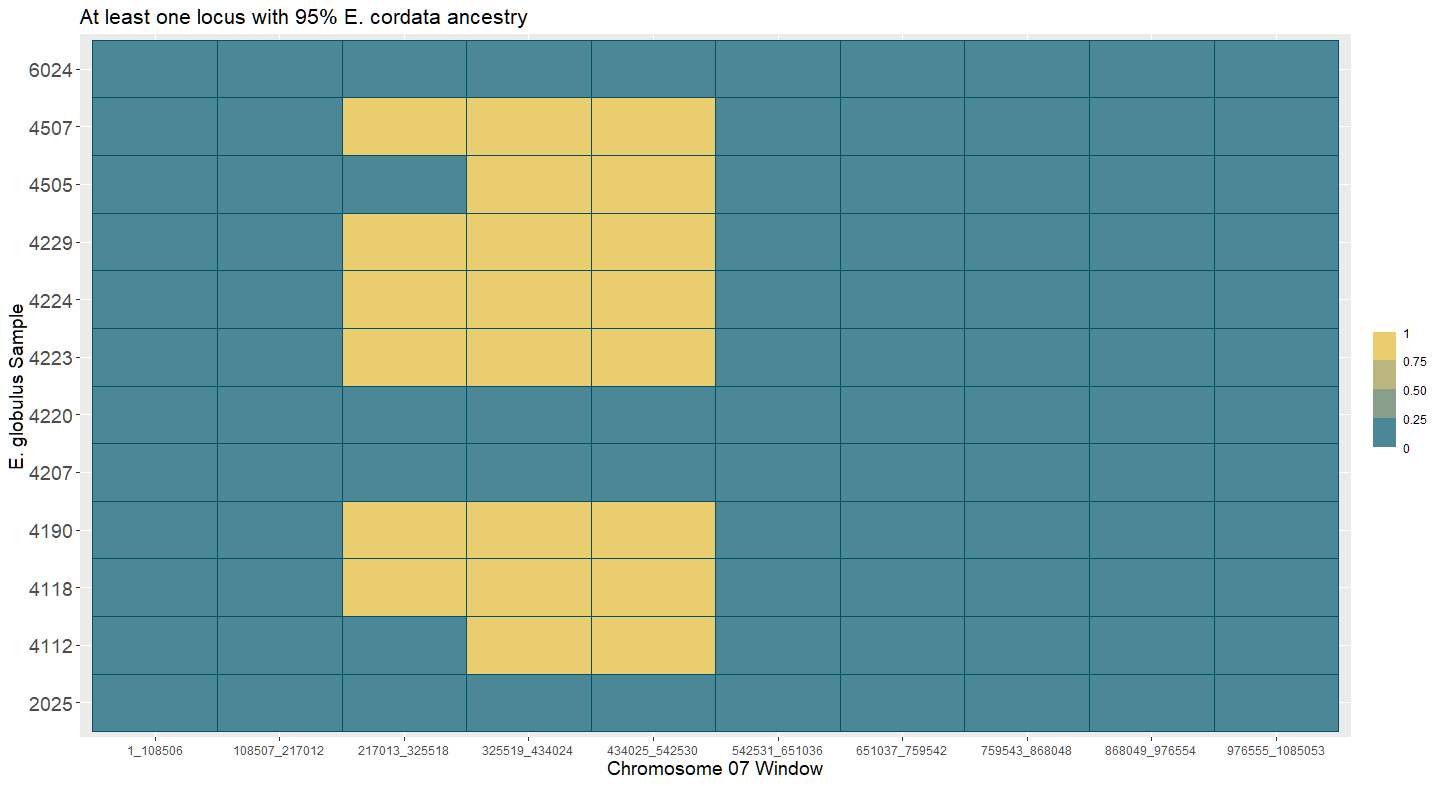
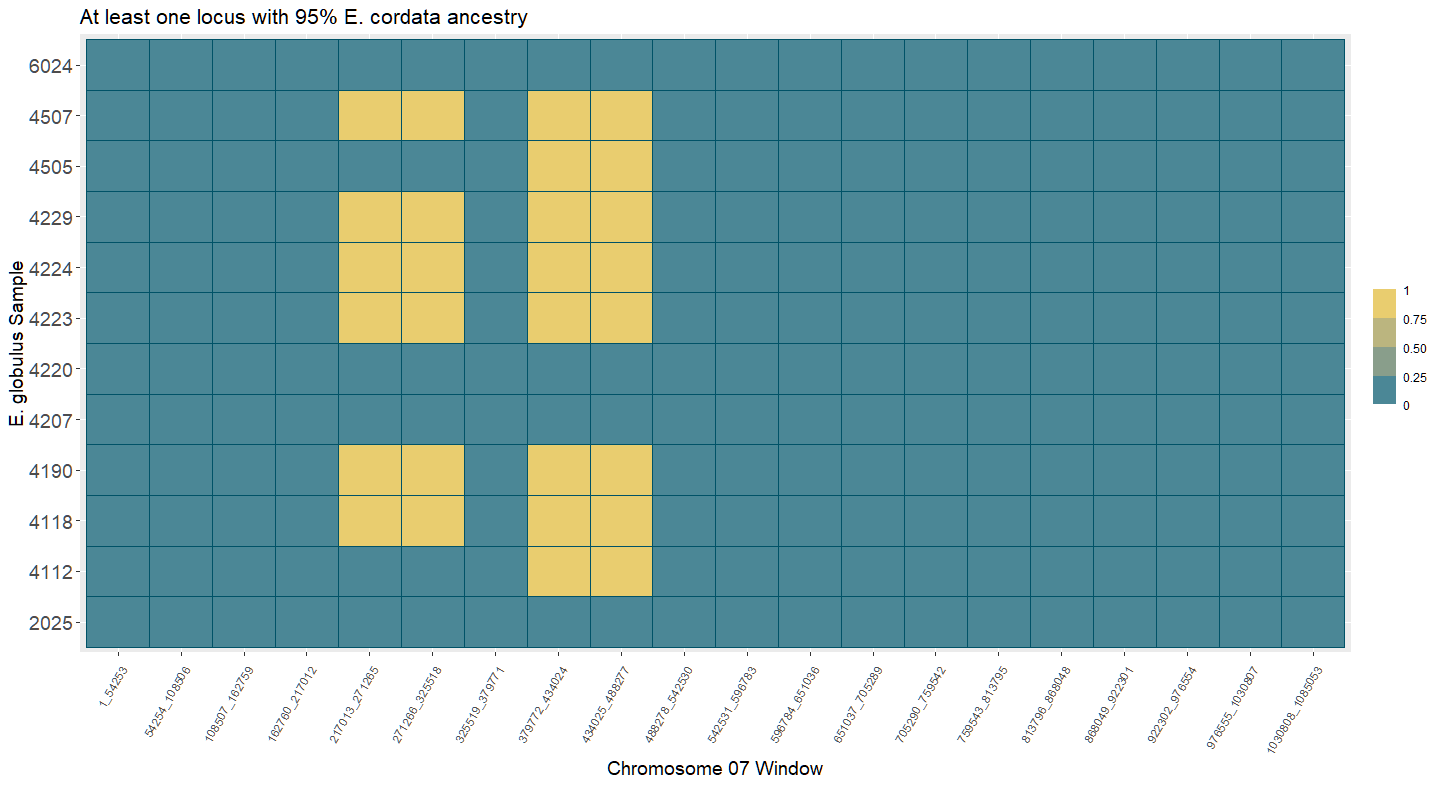
zoomed heatmaps

diff --git a/05.analyses/ancestry_hmm/README.md b/05.analyses/ancestry_hmm/README.md
@@ -505,7 +505,7 @@ chr06b2_3_het <- ggplot(chr06b2_3_df, aes(window, acc, fill = het_mat)) +
               ggtitle("At least one locus with 95% E. cordata ancestry") + 
               xlab("Chromosome 06 Window") + ylab("E. globulus Sample") + 
               scale_x_discrete(labels = chr06b2_3_xlabs) +
-              hm_theme
+              hm_theme + theme(axis.text.x = element_text(angle = 60, vjust = 0.95, hjust=1))
 chr06b2_3_het
 
 # Chromosome 7 Block 1-1
@@ -525,7 +525,7 @@ chr07b1_1_het <- ggplot(chr07b1_1_df, aes(window, acc, fill = het_mat)) +
               ggtitle("At least one locus with 95% E. cordata ancestry") + 
               xlab("Chromosome 07 Window") + ylab("E. globulus Sample") + 
               scale_x_discrete(labels = chr07b1_1_xlabs) +
-              hm_theme
+              hm_theme + theme(axis.text.x = element_text(angle = 60, vjust = 0.95, hjust=1))
 chr07b1_1_het
 
 # Chromosome 7 Block 1-7
@@ -545,7 +545,7 @@ chr07b1_7_het <- ggplot(chr07b1_7_df, aes(window, acc, fill = het_mat)) +
               ggtitle("At least one locus with 95% E. cordata ancestry") + 
               xlab("Chromosome 07 Window") + ylab("E. globulus Sample") + 
               scale_x_discrete(labels = chr07b1_7_xlabs) +
-              hm_theme
+              hm_theme + theme(axis.text.x = element_text(angle = 60, vjust = 0.95, hjust=1))
 chr07b1_7_het
 
 # Chromosome 8 Block 2-67
@@ -565,14 +565,133 @@ chr08b2_67_het <- ggplot(chr08b2_67_df, aes(window, acc, fill = het_mat)) +
               ggtitle("At least one locus with 95% E. cordata ancestry") + 
               xlab("Chromosome 08 Window") + ylab("E. globulus Sample") + 
               scale_x_discrete(labels = chr08b2_67_xlabs) +
-              hm_theme
+              hm_theme + theme(axis.text.x = element_text(angle = 60, vjust = 0.95, hjust=1))
 chr08b2_67_het
 ```
 
-![Presence of _E. cordata_ ancestry in Chromosome 6 12513761 bp to 13556574 bp; heterozygotes were scored as half in presence/absence matrix.](chr06b2-3_het_windows.png "_E. cordata_ ancestry heatmap for Chromosome 6 Block 3")
+![Presence of _E. cordata_ ancestry in Chromosome 6 12513761 bp to 13556574 bp; heterozygotes were scored as half in presence/absence matrix.](chr06b2-3_het_windows.png "_E. cordata_ ancestry heatmap for Chromosome 6 Block 2_3")
 
-![Presence of _E. cordata_ ancestry in Chromosome 7 1 bp to 1085053 bp; heterozygotes were scored as half in presence/absence matrix.](chr07b1-1_het_windows.png "_E. cordata_ ancestry heatmap for Chromosome 7 Block 1-1")
+![Presence of _E. cordata_ ancestry in Chromosome 7 1 bp to 1085053 bp; heterozygotes were scored as half in presence/absence matrix.](chr07b1-1_het_windows.png "_E. cordata_ ancestry heatmap for Chromosome 7 Block 1_1")
 
-![Presence of _E. cordata_ ancestry in Chromosome 7 6510319 bp to 7595371 bp; heterozygotes were scored as half in presence/absence matrix.](chr07b1-7_het_windows.png "_E. cordata_ ancestry heatmap for Chromosome 7 Block 1-7")
+![Presence of _E. cordata_ ancestry in Chromosome 7 6510319 bp to 7595371 bp; heterozygotes were scored as half in presence/absence matrix.](chr07b1-7_het_windows.png "_E. cordata_ ancestry heatmap for Chromosome 7 Block 1_7")
 
-![Presence of _E. cordata_ ancestry in Chromosome 8 21064388 to 23872973 bp; heterozygotes were scored as half in presence/absence matrix.](chr08b2-67_het_windows.png "_E. cordata_ ancestry heatmap for Chromosome 8 Block 2-67")
+![Presence of _E. cordata_ ancestry in Chromosome 8 21064388 to 23872973 bp; heterozygotes were scored as half in presence/absence matrix.](chr08b2-67_het_windows.png "_E. cordata_ ancestry heatmap for Chromosome 8 Block 2_6-7")
+
+| Chromosome | Start (bp)  | End (bp)    |
+| ---------- | ----------- | ----------- |
+| Chr06      | 13,139,453  | 13,190,593  |
+| Chr07      | 217,013     | 488,277     |
+| Chr07      | 7,052,849   | 7,161,354   |
+| Chr08      | 22,328,249  | 22,749,536  |
+
+Plotted zoomed shared blocks, split again.
+
+```R
+library(ggplot2)
+
+# Chromosome 6 Block 2-3
+chr06b2_3_13_filename_rel <- "chr06_block2-3-13_windows.csv"
+chr06b2_3_13_filename <- paste(wdir, chr06b2_3_13_filename_rel, sep = "/")
+chr06b2_3_13_tab <- read.csv(chr06b2_3_13_filename, header = FALSE, col.names = c("chrom", "start", "end"), colClasses = c("character", "integer", "integer"))
+chr06b2_3_13_df <- populate_mat(chr06b2_samples, chr06b2_3_13_tab)
+
+label_order <- match(chr06b2_3_13_df$sample, name_table$RAPiD_ID)
+chr06b2_3_13_df$acc <- name_table$Accession[label_order]
+chr06b2_3_13_xlabs <- unique(gsub("Chr06_", "", chr06b2_3_13_df$window))
+
+chr06b2_3_13_het <- ggplot(chr06b2_3_13_df, aes(window, acc, fill = het_mat)) + 
+              geom_tile(color = "#005267") + 
+              scale_fill_steps(high = "#ffd966", low = "#007c9b") + 
+              guides(fill = guide_coloursteps(title = NULL, show.limits = TRUE)) +
+              ggtitle("At least one locus with 95% E. cordata ancestry") + 
+              xlab("Chromosome 06 Window") + ylab("E. globulus Sample") + 
+              scale_x_discrete(labels = chr06b2_3_13_xlabs) +
+              hm_theme + theme(axis.text.x = element_text(angle = 60, vjust = 0.95, hjust=1))
+chr06b2_3_13_het
+
+# Chromosome 7 Block 1-1
+chr07b1_1_59_filename_rel <- "chr07_block1-1-59_windows.csv"
+chr07b1_1_59_filename <- paste(wdir, chr07b1_1_59_filename_rel, sep = "/")
+chr07b1_1_59_tab <- read.csv(chr07b1_1_59_filename, header = FALSE, col.names = c("chrom", "start", "end"), colClasses = c("character", "integer", "integer"))
+chr07b1_1_59_df <- populate_mat(chr07b1_samples, chr07b1_1_59_tab)
+
+label_order <- match(chr07b1_1_59_df$sample, name_table$RAPiD_ID)
+chr07b1_1_59_df$acc <- name_table$Accession[label_order]
+chr07b1_1_59_xlabs <- unique(gsub("Chr07_", "", chr07b1_1_59_df$window))
+
+chr07b1_1_59_het <- ggplot(chr07b1_1_59_df, aes(window, acc, fill = het_mat)) + 
+              geom_tile(color = "#005267") + 
+              scale_fill_steps(high = "#ffd966", low = "#007c9b") + 
+              guides(fill = guide_coloursteps(title = NULL, show.limits = TRUE)) +
+              ggtitle("At least one locus with 95% E. cordata ancestry") + 
+              xlab("Chromosome 07 Window") + ylab("E. globulus Sample") + 
+              scale_x_discrete(labels = chr07b1_1_59_xlabs) +
+              hm_theme + theme(axis.text.x = element_text(angle = 60, vjust = 0.95, hjust=1))
+chr07b1_1_59_het
+
+# Chromosome 7 Block 1-7
+chr07b1_7_1112_filename_rel <- "chr07_block1-7-1112_windows.csv"
+chr07b1_7_1112_filename <- paste(wdir, chr07b1_7_1112_filename_rel, sep = "/")
+chr07b1_7_1112_tab <- read.csv(chr07b1_7_1112_filename, header = FALSE, col.names = c("chrom", "start", "end"), colClasses = c("character", "integer", "integer"))
+chr07b1_7_1112_df <- populate_mat(chr07b1_samples, chr07b1_7_1112_tab)
+
+label_order <- match(chr07b1_7_1112_df$sample, name_table$RAPiD_ID)
+chr07b1_7_1112_df$acc <- name_table$Accession[label_order]
+chr07b1_7_1112_xlabs <- unique(gsub("Chr07_", "", chr07b1_7_1112_df$window))
+
+chr07b1_7_1112_het <- ggplot(chr07b1_7_1112_df, aes(window, acc, fill = het_mat)) + 
+              geom_tile(color = "#005267") + 
+              scale_fill_steps(high = "#ffd966", low = "#007c9b") + 
+              guides(fill = guide_coloursteps(title = NULL, show.limits = TRUE)) +
+              ggtitle("At least one locus with 95% E. cordata ancestry") + 
+              xlab("Chromosome 07 Window") + ylab("E. globulus Sample") + 
+              scale_x_discrete(labels = chr07b1_7_1112_xlabs) +
+              hm_theme + theme(axis.text.x = element_text(angle = 60, vjust = 0.95, hjust=1))
+chr07b1_7_1112_het
+
+# Chromosome 8 Block 2-67
+chr08b2_67_1012_filename_rel <- "chr08_block2-67-1012_windows.csv"
+chr08b2_67_1012_filename <- paste(wdir, chr08b2_67_1012_filename_rel, sep = "/")
+chr08b2_67_1012_tab <- read.csv(chr08b2_67_1012_filename, header = FALSE, col.names = c("chrom", "start", "end"), colClasses = c("character", "integer", "integer"))
+chr08b2_67_1012_df <- populate_mat(chr08b2_samples, chr08b2_67_1012_tab)
+
+label_order <- match(chr08b2_67_1012_df$sample, name_table$RAPiD_ID)
+chr08b2_67_1012_df$acc <- name_table$Accession[label_order]
+chr08b2_67_1012_xlabs <- unique(gsub("Chr08_", "", chr08b2_67_1012_df$window))
+
+chr08b2_67_1012_het <- ggplot(chr08b2_67_1012_df, aes(window, acc, fill = het_mat)) + 
+              geom_tile(color = "#005267") + 
+              scale_fill_steps(high = "#ffd966", low = "#007c9b") + 
+              guides(fill = guide_coloursteps(title = NULL, show.limits = TRUE)) +
+              ggtitle("At least one locus with 95% E. cordata ancestry") + 
+              xlab("Chromosome 08 Window") + ylab("E. globulus Sample") + 
+              scale_x_discrete(labels = chr08b2_67_1012_xlabs) +
+              hm_theme + theme(axis.text.x = element_text(angle = 60, vjust = 0.95, hjust=1))
+chr08b2_67_1012_het
+```
+
+![Presence of _E. cordata_ ancestry in Chromosome 6 13139453 bp to 13190593 bp; heterozygotes were scored as half in presence/absence matrix.](chr06b2-3-13_het_windows.png "_E. cordata_ ancestry heatmap for Chromosome 6 Block 2_3_13")
+
+![Presence of _E. cordata_ ancestry in Chromosome 7 217013 bp to 488277 bp; heterozygotes were scored as half in presence/absence matrix.](chr07b1-1-59_het_windows.png "_E. cordata_ ancestry heatmap for Chromosome 7 Block 1_1_5-9")
+
+![Presence of _E. cordata_ ancestry in Chromosome 7 7052849 bp to 7161354 bp; heterozygotes were scored as half in presence/absence matrix.](chr07b1-7-1112_het_windows.png "_E. cordata_ ancestry heatmap for Chromosome 7 Block 1_7_11-12")
+
+![Presence of _E. cordata_ ancestry in Chromosome 8 22328249 to 22749536 bp; heterozygotes were scored as half in presence/absence matrix.](chr08b2-67-1012_het_windows.png "_E. cordata_ ancestry heatmap for Chromosome 8 Block 2_6-7_10-12")
+
+Final intervals to investigate further:
+
+| Chromosome | Start (bp)  | End (bp)    |
+| ---------- | ----------- | ----------- |
+| Chr06      | 13,159,909  | 13,180,364  |
+| Chr07      | 230,577     | 237,358     |
+| Chr07      | 278,051     | 284,832     |
+| Chr07      | 427,255     | 447,600     |
+| Chr07      | 7,074,553   | 7,123,386   |
+| Chr08      | 22,454,645  | 22,486,243  |
+
+Intervals for single samples:
+
+| Sample | Chromosome | Start (bp)  | End (bp)    |
+| ------ | ---------- | ----------- | ----------- |
+| 6024   | Chr08      | 22,496,777  | 22,602,106  |
+| 4207   | Chr08      | 22,654,772  | 22,739,035  |
